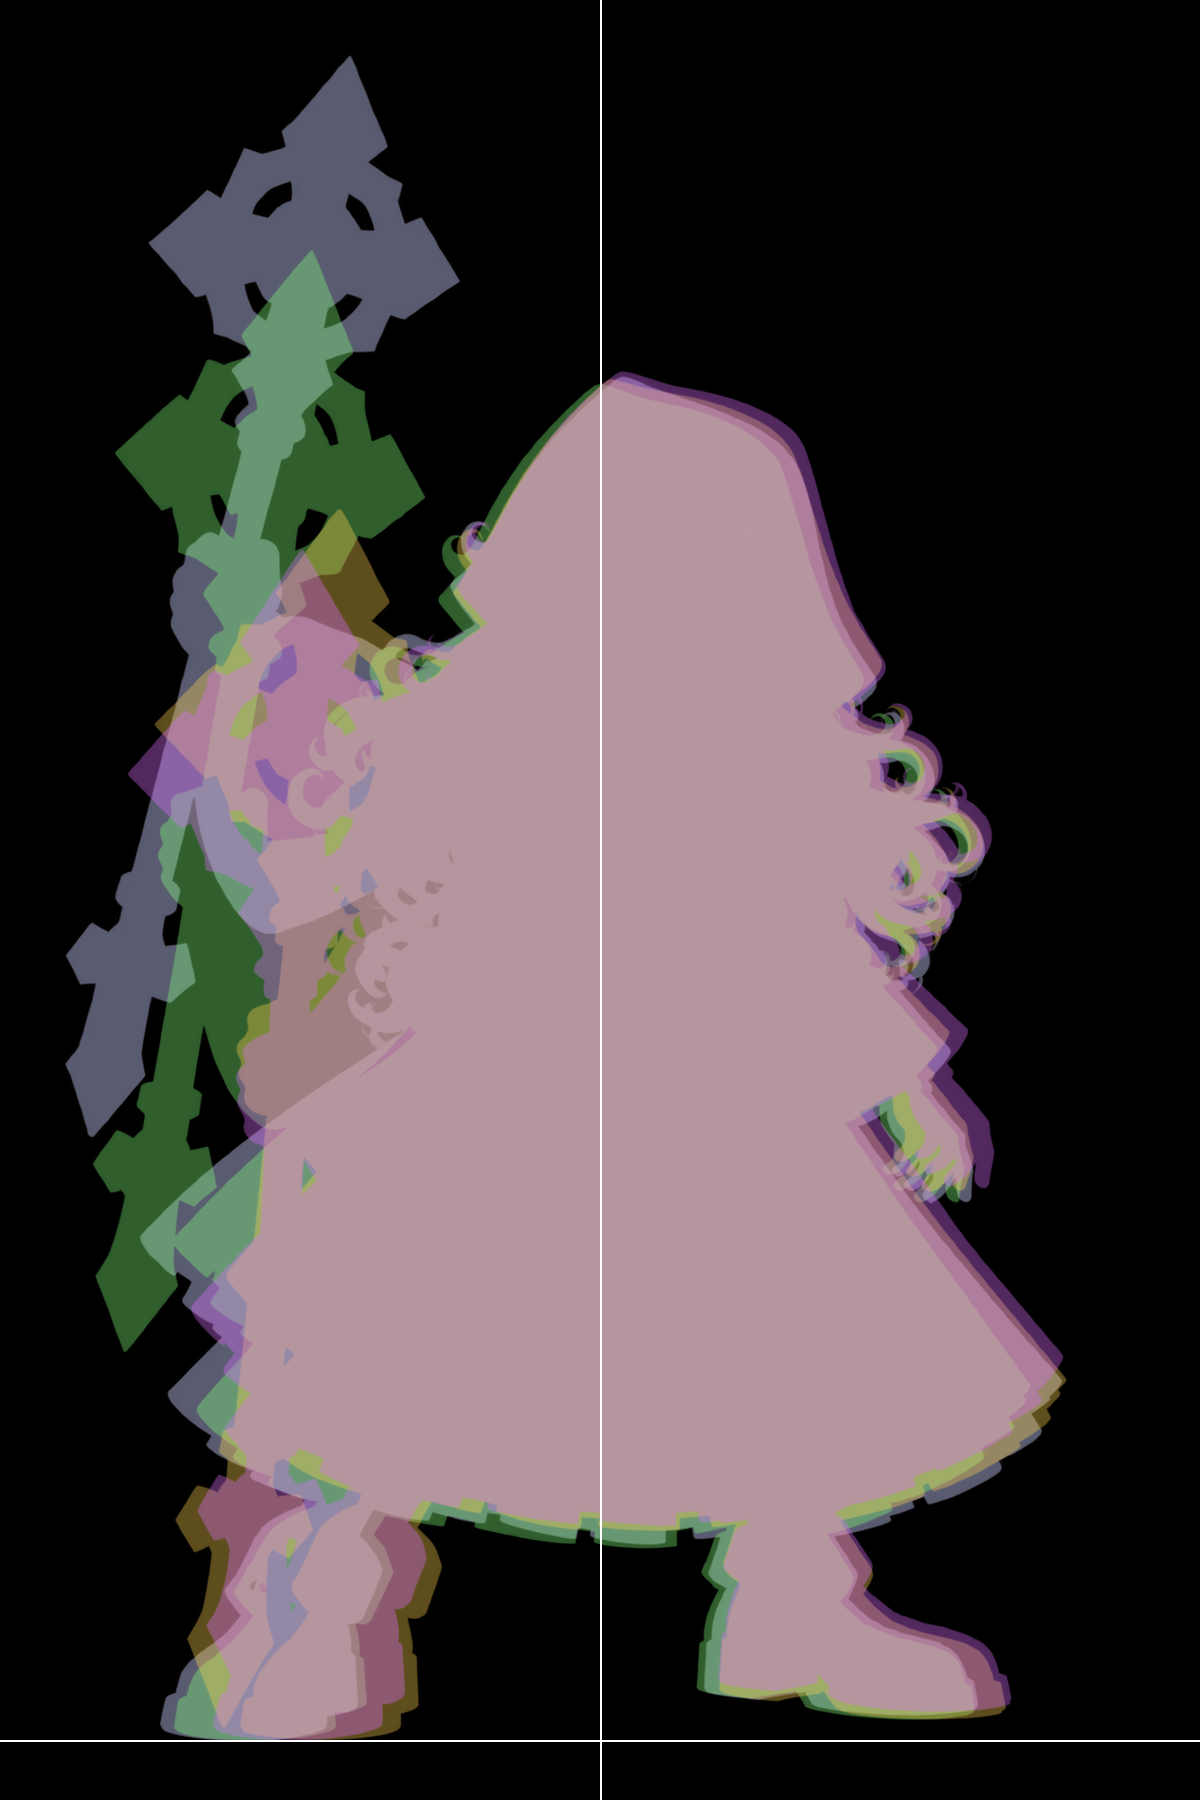
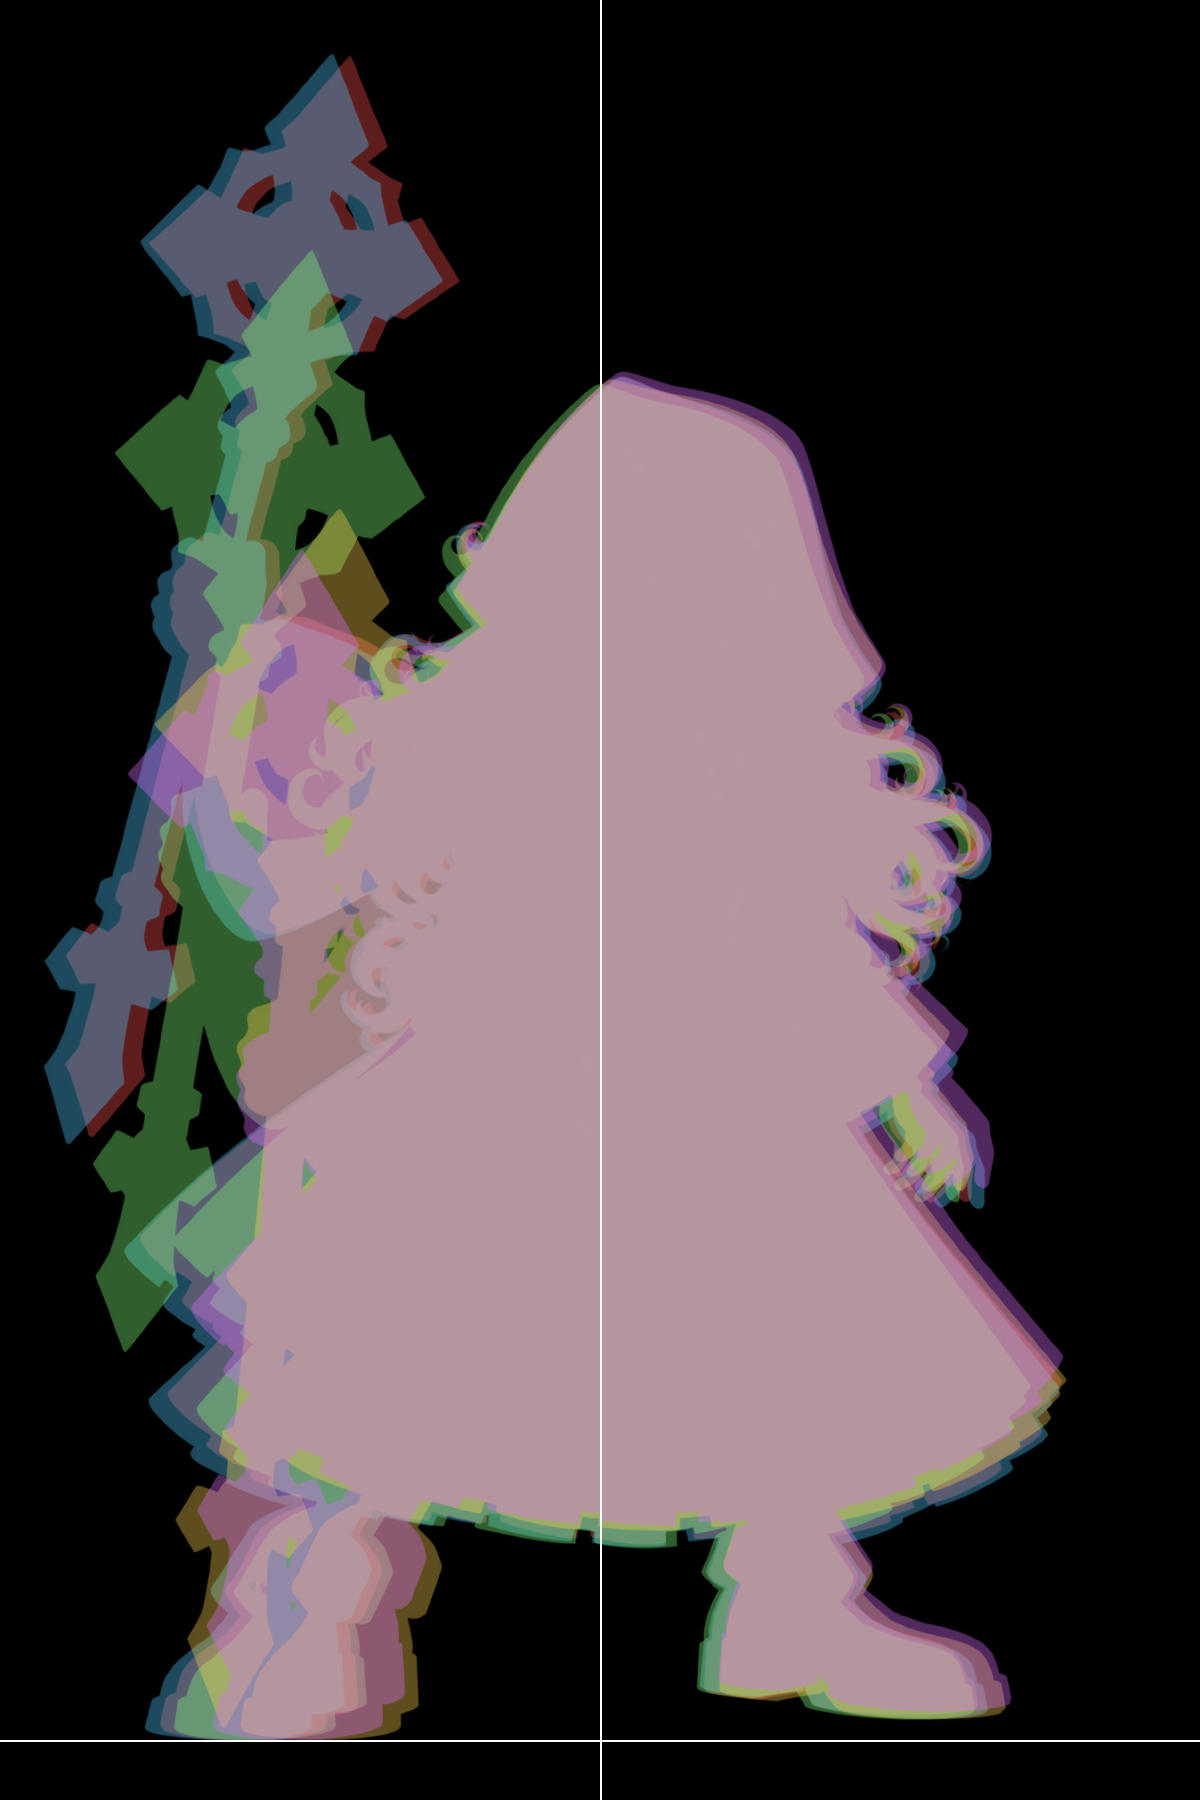
fix: replace aligned human priest second frame

diff --git a/script.js b/script.js
@@ -232,7 +232,7 @@ let selection = { faction: 'light', race: 'human', job: 'warrior' };
 const characterIdleAnimations = {
   'human:mage': { portrait: 'assets/character-portraits/human-mage-idle-03.png?v=2', breathe: true },
   'human:priest': {
-    frames: [1, 2, 3, 4, 5].map((frame) => `assets/character-portraits/calibration-tests/human-priest-five-frame-v1/frame-${String(frame).padStart(2, '0')}.png?v=1`),
+    frames: [1, 2, 3, 4, 5].map((frame) => `assets/character-portraits/calibration-tests/human-priest-five-frame-v1/frame-${String(frame).padStart(2, '0')}.png?v=2`),
     order: [0, 1, 2, 3, 4, 3, 2, 1],
     frameDurationMs: 180
   },

diff --git a/tools/calibrate-human-priest-five-frame-sequence.py b/tools/calibrate-human-priest-five-frame-sequence.py
@@ -11,7 +11,7 @@ ROOT = Path(__file__).resolve().parents[1]
 OUTPUT = ROOT / "assets" / "character-portraits" / "calibration-tests" / "human-priest-five-frame-v1"
 SOURCES = [
     Path(r"C:\Users\User\AppData\Local\Temp\codex-clipboard-f97121a0-7668-4753-bee0-70cdd74885c1.png"),
-    Path(r"C:\Users\User\AppData\Local\Temp\codex-clipboard-3d2629cf-9c88-4f50-a0bd-1f2e521ee721.png"),
+    Path(r"C:\Users\User\AppData\Local\Temp\codex-clipboard-5c0b04bc-9793-480d-b5ca-c11605fb1a56.png"),
     Path(r"C:\Users\User\AppData\Local\Temp\codex-clipboard-33b1a5d1-e37f-4ff1-adde-659894cc7181.png"),
     Path(r"C:\Users\User\AppData\Local\Temp\codex-clipboard-f7a08e6b-dffd-4a73-aa41-347d54a20efa.png"),
     Path(r"C:\Users\User\AppData\Local\Temp\codex-clipboard-936cb03d-1ed6-4c2b-a0c1-f1a98fe05e47.png"),
@@ -121,7 +121,7 @@ def main():
         "target_visual_body_height": TARGET_BODY_HEIGHT,
         "target_foot_y": TARGET_FOOT_Y,
         "target_torso_center_x": TARGET_CENTER_X,
-        "duplicate_frames": [[1, 2]],
+        "duplicate_frames": [],
         "playback": {"frame_duration_ms": 180, "order": [1, 2, 3, 4, 5, 4, 3, 2]},
         "frames": metrics,
     }
